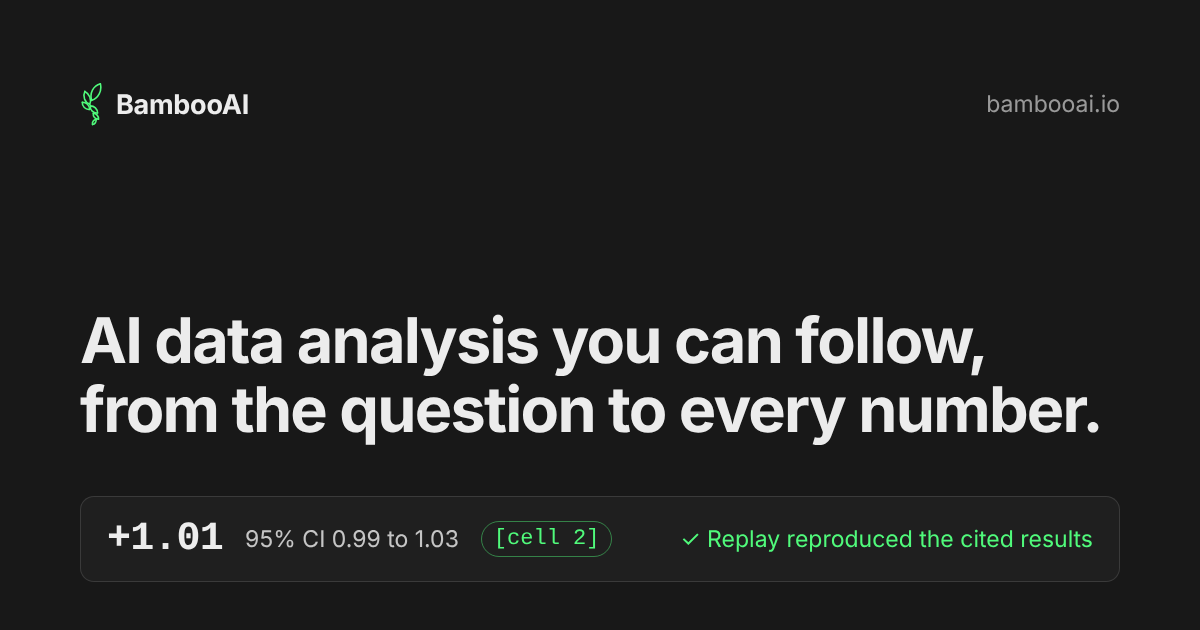
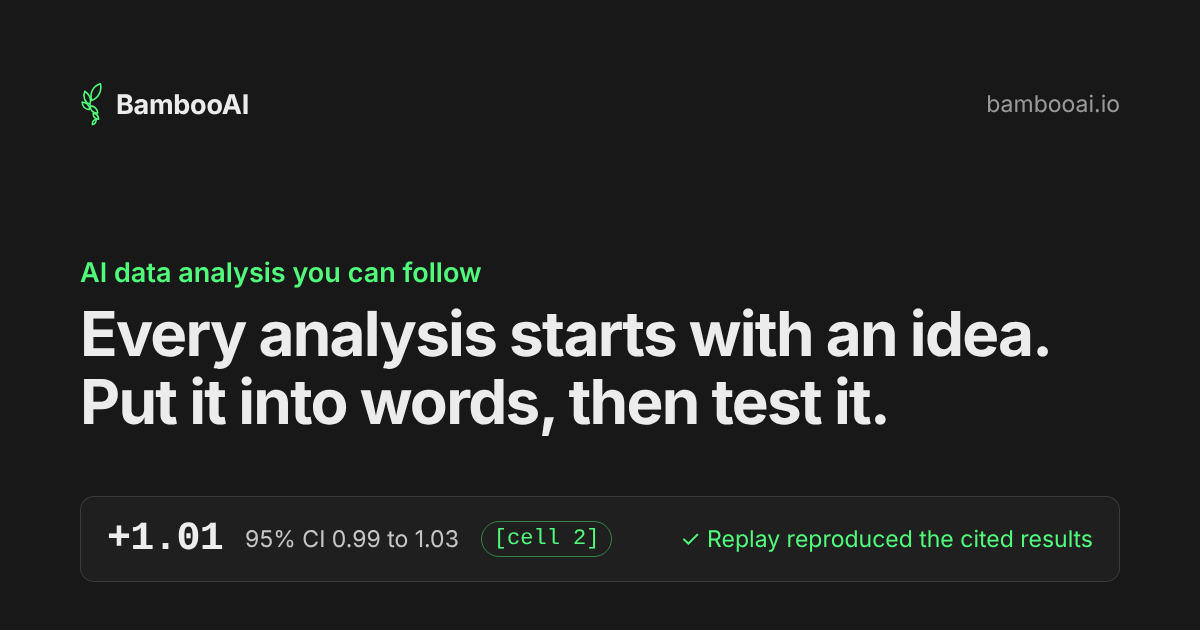
Lead with the idea: new headline and stage names, lighter buttons, notebook and open source under the diagram

Changed region(s): [[0.0617, 0.4825, 0.925, 0.7238], [0.0617, 0.4222, 0.4008, 0.4524]]

diff --git a/index.html b/index.html
@@ -16,7 +16,7 @@
     <meta property="og:url" content="https://bambooai.io/">
     <meta property="og:title" content="BambooAI: AI data analysis you can follow">
     <meta property="og:description" content="Ask a question about your data in plain words. BambooAI helps you think it through, does the analysis step by step, and checks the work behind every number.">
-    <meta property="og:image" content="https://bambooai.io/assets/images/og-image.png">
+    <meta property="og:image" content="https://bambooai.io/assets/images/og-image.png?v=2">
     <meta property="og:image:width" content="1200">
     <meta property="og:image:height" content="630">
     <meta name="twitter:card" content="summary_large_image">
@@ -58,15 +58,17 @@
         <section class="hero" id="top" aria-labelledby="hero-title">
             <div class="wrap">
                 <div class="hero-text">
-                    <h1 id="hero-title">AI data analysis you can follow, from the question to every number.</h1>
-                    <p class="lede">Upload your data and ask a question in plain words. BambooAI works through it in three stages: it helps you think the question through, does the analysis step by step in Python, and then checks its own work. Every stage stays visible, so you can follow how the answer was reached.</p>
+                    <p class="hero-kicker">AI data analysis you can follow</p>
+                    <h1 id="hero-title"><span class="h1-l">Every analysis starts with an idea.</span> <span class="h1-l">Put it into words, then test it.</span></h1>
+                    <p class="lede">Upload your data and ask a question in plain words. BambooAI helps you set out what you think is going on, tests it step by step in Python, and then checks its own work. Every stage stays visible, so you can follow how the answer was reached.</p>
+                    <p class="hero-facts"><span>Open source, MIT licence</span><span aria-hidden="true"> · </span><span>Any model, hosted or on your own machine</span><span aria-hidden="true"> · </span><span>Every analysis kept as a notebook</span></p>
                 </div>
 
                 <ol class="stages">
                     <li class="stage stage-q">
-                        <p class="stage-of"><span class="stage-n" aria-hidden="true">1</span>Analysis of the analyst</p>
+                        <p class="stage-of"><span class="stage-n" aria-hidden="true">1</span>Analysis of the idea</p>
                         <p class="stage-name"><a href="#question">The question</a></p>
-                        <p class="stage-text">Before any code runs, the Architect talks the question through with you and writes down a brief: what the answer is for, what you expect to see and what else might explain it.</p>
+                        <p class="stage-text">Before any code runs, the Architect helps you put what you think into words: a brief with what the answer is for, what you expect to see and what else might explain it.</p>
                         <div class="stage-view mini-brief" aria-hidden="true">
                             <p class="mb-label">What it will look like</p>
                             <div class="mb-fig">
@@ -95,7 +97,7 @@
                         </div>
                     </li>
                     <li class="stage stage-c">
-                        <p class="stage-of"><span class="stage-n" aria-hidden="true">3</span>Analysis of the analysis</p>
+                        <p class="stage-of"><span class="stage-n" aria-hidden="true">3</span>Analysis of the work</p>
                         <p class="stage-name"><a href="#checks">The checks</a></p>
                         <p class="stage-text">Every number in the report is checked against the code that produced it, the work is run again from scratch, and the code map shows how each result was made.</p>
                         <div class="stage-view mini-record" aria-hidden="true">
@@ -120,7 +122,7 @@
         <section class="section part part-q" id="question" aria-labelledby="question-title">
             <div class="wrap">
                 <header class="section-head">
-                    <p class="eyebrow"><span class="eyebrow-n" aria-hidden="true">1</span>Analysis of the analyst</p>
+                    <p class="eyebrow"><span class="eyebrow-n" aria-hidden="true">1</span>Analysis of the idea</p>
                     <h2 id="question-title">Work out the question first</h2>
                     <p>Before any analysis begins, the Architect works with you to find the right framing of the question, or the right representation of the problem. Without it, an AI model makes that choice on its own, usually without saying so.</p>
                 </header>
@@ -146,7 +148,7 @@
             <div class="wrap">
                 <header class="section-head">
                     <p class="eyebrow"><span class="eyebrow-n" aria-hidden="true">2</span>Analysis of the data</p>
-                    <h2 id="analysis-title">See every step</h2>
+                    <h2 id="analysis-title">Work out the answer step by step</h2>
                     <p>Each step of the analysis is visible as it happens, in full: the instructions the model received, its reasoning and working notes, the code it wrote, what that code printed and any attempt that failed.</p>
                 </header>
                 <figure class="showcase">
@@ -160,9 +162,9 @@
                     <figcaption>The app after an analysis, with each step on the left and the report’s charts on the right.</figcaption>
                 </figure>
                 <ul class="facts">
+                    <li><h3>Held to the brief</h3><p>What you expected and each other explanation are tested. If the data can’t give what the brief fixes, the analyst asks you instead of putting something else in its place.</p></li>
                     <li><h3>Quick, Deep or Adaptive</h3><p>Pick how much effort a question deserves. Each mode has a budget of turns and cost, and the analyst knows it.</p></li>
                     <li><h3>The context around the numbers</h3><p>It also reads the notes written alongside your data and the documents you attach, and cites each passage by its place in the source.</p></li>
-                    <li><h3>Follow-ups and branches</h3><p>A follow-up carries on where the last run ended. Branch off any earlier analysis and see them all on the thread map.</p></li>
                 </ul>
             </div>
         </section>
@@ -170,7 +172,7 @@
         <section class="section part part-c" id="checks" aria-labelledby="checks-title">
             <div class="wrap">
                 <header class="section-head">
-                    <p class="eyebrow"><span class="eyebrow-n" aria-hidden="true">3</span>Analysis of the analysis</p>
+                    <p class="eyebrow"><span class="eyebrow-n" aria-hidden="true">3</span>Analysis of the work</p>
                     <h2 id="checks-title">Check the work</h2>
                     <p>An AI model can write a long analysis in minutes, much faster than anyone can read it closely. So BambooAI keeps a full record of the work, and when the analysis ends, it checks the report against it.</p>
                 </header>
@@ -185,9 +187,9 @@
                     <figcaption>The code map traces each number back to your data. It is built by fixed rules, with no AI involved, and shows how a number was made, not whether it’s right.</figcaption>
                 </figure>
                 <ul class="facts">
+                    <li><h3>The result and the brief</h3><p>The brief shows whether you saw what you expected, and what came of each other explanation.</p></li>
                     <li><h3>Number checks</h3><p>Every number in the report is compared with what the code printed. One that doesn’t match is flagged, not silently corrected.</p></li>
                     <li><h3>Replay</h3><p>The code behind the cited results runs again in a fresh Python session, and the numbers are compared with the first run.</p></li>
-                    <li><h3>The result and the brief</h3><p>The brief shows whether you saw what you expected, and what came of each other explanation.</p></li>
                     <li><h3>The reach report</h3><p>It lists anything the code touched outside your data, and whether your question asked for it.</p></li>
                     <li><h3>The reviewer</h3><p>In Adaptive mode, a second model with its own instructions reviews the evidence every eight turns.</p></li>
                     <li><h3>Usage and logs</h3><p>Every model call is logged with its prompt, tokens, time and cost.</p></li>
@@ -202,7 +204,7 @@
                     <h2 id="again-title">Next questions, memory and routines</h2>
                 </header>
                 <ul class="facts">
-                    <li><h3>Next questions</h3><p>When a run ends, BambooAI suggests where to go next, based on what the analysis found or left open.</p></li>
+                    <li><h3>Next questions</h3><p>When a run ends, BambooAI suggests where to go next, based on what the analysis found or left open. A follow-up carries on where the run ended, and the thread map shows every branch.</p></li>
                     <li><h3>Memory</h3><p>The analyses you save become the Architect’s memory. Where they disagree, it says so and asks which way to go.</p></li>
                     <li><h3>Routines</h3><p>Save a finished analysis as a routine and run it on new data without a model.</p></li>
                 </ul>
@@ -230,7 +232,7 @@
                     <svg class="dg-ar dg-d dg-q" data-t="on:0.8" role="img" aria-label="From your question into the framing" viewBox="0 0 8 43" style="--x: 146px; --y: 36px; --w: 8px; --h: 43px; --n: 36"><path class="dg-line" d="M4 0 V36"></path><path class="dg-head" d="M0.5 36 L4 43 L7.5 36 Z"></path></svg>
                     <svg class="dg-ar dg-d dg-q" data-t="on:3.7" role="img" aria-label="From your data into the framing: what the brief rests on is looked up" viewBox="0 0 204 65" style="--x: 282px; --y: 14px; --w: 204px; --h: 65px; --n: 254"><path class="dg-line" d="M204 4 H4 V58"></path><path class="dg-head" d="M0.5 58 L4 65 L7.5 58 Z"></path></svg>
                     <p class="dg-lb dg-d dg-q" data-t="on:3.7" style="--x: 302px; --y: 28px; --w: 176px; text-align: center">looked up</p>
-                    <div class="dg-stage dg-g dg-q" data-t="on:1.2 act:1.2-5.8 loop:1.9-5.4 act:14.9-17 loop:15.1-16.9" style="--x: 0px; --y: 80px; --w: 320px; --h: 246px"><p class="dg-of">1 · Analysis of the analyst</p><p class="dg-name">Framing, and reframing</p><div class="dg-brief dg-ln" data-t="on:1.4"><p class="dg-bh"><span>The brief</span><span class="dg-vn"><span class="dg-ver" data-t="on:1.4-2.4">version 1</span><span class="dg-ver" data-t="on:2.4-3.2">version 2</span><span class="dg-ver" data-t="on:3.2-4.5">version 3</span><span class="dg-ver" data-t="on:4.5-5.1">version 4</span><span class="dg-ver last" data-t="on:5.1-15.5">version 5</span><span class="dg-ver" data-t="on:15.5-16.5">next question, version 1</span><span class="dg-ver" data-t="on:16.5">next question, version 2</span></span></p><ul class="dg-bl"><li class="dg-ln" data-t="on:1.5">What it is for</li><li class="dg-ln" data-t="on:1.7"><span>What you think, and why</span><span class="dg-mks"><span class="dg-mk ok" data-t="on:4.2">✓<span class="visually-hidden"> holds,</span></span><span class="dg-mk no" data-t="on:4.35">✕<span class="visually-hidden"> does not hold,</span></span><span class="dg-mk un" data-t="on:4.5">?<span class="visually-hidden"> cannot be checked</span></span></span></li><li class="dg-ln" data-t="on:2.0">What you expect to see</li><li class="dg-ln" data-t="on:2.3">What would change your mind</li><li class="dg-ln" data-t="on:4.8">Other explanations to test</li></ul></div></div>
+                    <div class="dg-stage dg-g dg-q" data-t="on:1.2 act:1.2-5.8 loop:1.9-5.4 act:14.9-17 loop:15.1-16.9" style="--x: 0px; --y: 80px; --w: 320px; --h: 246px"><p class="dg-of">1 · Analysis of the idea</p><p class="dg-name">Framing, and reframing</p><div class="dg-brief dg-ln" data-t="on:1.4"><p class="dg-bh"><span>The brief</span><span class="dg-vn"><span class="dg-ver" data-t="on:1.4-2.4">version 1</span><span class="dg-ver" data-t="on:2.4-3.2">version 2</span><span class="dg-ver" data-t="on:3.2-4.5">version 3</span><span class="dg-ver" data-t="on:4.5-5.1">version 4</span><span class="dg-ver last" data-t="on:5.1-15.5">version 5</span><span class="dg-ver" data-t="on:15.5-16.5">next question, version 1</span><span class="dg-ver" data-t="on:16.5">next question, version 2</span></span></p><ul class="dg-bl"><li class="dg-ln" data-t="on:1.5">What it is for</li><li class="dg-ln" data-t="on:1.7"><span>What you think, and why</span><span class="dg-mks"><span class="dg-mk ok" data-t="on:4.2">✓<span class="visually-hidden"> holds,</span></span><span class="dg-mk no" data-t="on:4.35">✕<span class="visually-hidden"> does not hold,</span></span><span class="dg-mk un" data-t="on:4.5">?<span class="visually-hidden"> cannot be checked</span></span></span></li><li class="dg-ln" data-t="on:2.0">What you expect to see</li><li class="dg-ln" data-t="on:2.3">What would change your mind</li><li class="dg-ln" data-t="on:4.8">Other explanations to test</li></ul></div></div>
                     <svg class="dg-ar dg-d dg-q" data-t="on:2.2" role="img" aria-label="From the framing into the record: the conversation and every version of the brief" viewBox="0 0 8 112" style="--x: 96px; --y: 326px; --w: 8px; --h: 112px; --n: 105"><path class="dg-line" d="M4 0 V105"></path><path class="dg-head" d="M0.5 105 L4 112 L7.5 105 Z"></path></svg>
                     <svg class="dg-ar dg-d dg-q" data-t="on:2.9" role="img" aria-label="From the record back into the framing: saved analyses, and how the result turned out" viewBox="0 0 8 111" style="--x: 216px; --y: 327px; --w: 8px; --h: 111px; --n: 104"><path class="dg-line" d="M4 111 V7"></path><path class="dg-head" d="M0.5 7 L4 0 L7.5 7 Z"></path></svg>
                     <p class="dg-lb dg-d dg-q" data-t="on:2.9" style="--x: 236px; --y: 374px; --w: 250px; text-align: left"><span class="dg-ver" data-t="on:2.9-14.3">saved analyses</span><span class="dg-ver last" data-t="on:14.3">how it turned out, saved analyses</span></p>
@@ -253,7 +255,7 @@
                     <svg class="dg-ar dg-d dg-c" data-t="on:11.0" role="img" aria-label="From the record to the checks, which read it" viewBox="0 0 8 111" style="--x: 988px; --y: 327px; --w: 8px; --h: 111px; --n: 104"><path class="dg-line" d="M4 111 V7"></path><path class="dg-head" d="M0.5 7 L4 0 L7.5 7 Z"></path></svg>
                     <p class="dg-lb dg-d dg-c" data-t="on:11.0" style="--x: 826px; --y: 374px; --w: 150px; text-align: right">read by the checks</p>
                     <p class="dg-conn dg-m dg-c" data-t="on:11.0"><span>read by the checks</span></p>
-                    <div class="dg-stage dg-g dg-c" data-t="on:10.6 act:10.6-14" style="--x: 832px; --y: 80px; --w: 320px; --h: 246px"><p class="dg-of">3 · Analysis of the analysis</p><p class="dg-name">Everything visible</p><ul class="dg-parts"><li class="dg-ln" data-t="on:12.0">Every number checked against the code</li><li class="dg-ln" data-t="on:12.2">The work run again from scratch</li><li class="dg-ln" data-t="on:12.4">Each number traced back to your data</li><li class="dg-ln" data-t="on:12.6">What the code touched outside your data</li><li class="dg-ln" data-t="on:12.8">How it turned out, against the brief</li></ul></div>
+                    <div class="dg-stage dg-g dg-c" data-t="on:10.6 act:10.6-14" style="--x: 832px; --y: 80px; --w: 320px; --h: 246px"><p class="dg-of">3 · Analysis of the work</p><p class="dg-name">Everything visible</p><ul class="dg-parts"><li class="dg-ln" data-t="on:12.0">Every number checked against the code</li><li class="dg-ln" data-t="on:12.2">The work run again from scratch</li><li class="dg-ln" data-t="on:12.4">Each number traced back to your data</li><li class="dg-ln" data-t="on:12.6">What the code touched outside your data</li><li class="dg-ln" data-t="on:12.8">How it turned out, against the brief</li></ul></div>
                     <svg class="dg-ar dg-d dg-c" data-t="on:13.3" role="img" aria-label="From the checks to an answer you can check" viewBox="0 0 8 43" style="--x: 988px; --y: 37px; --w: 8px; --h: 43px; --n: 36"><path class="dg-line" d="M4 43 V7"></path><path class="dg-head" d="M0.5 7 L4 0 L7.5 7 Z"></path></svg>
                     <p class="dg-conn dg-m dg-c" data-t="on:13.3"></p>
                     <p class="dg-chip dg-g dg-c" data-t="on:13.7" style="--x: 872px; --y: 0px; --w: 240px; --h: 36px">An answer you can check</p>
@@ -261,13 +263,10 @@
                     </div>
                     <div class="dg-foot"><button class="dg-ctl" type="button" hidden>Replay</button></div>
                 </figure>
-            </div>
-        </section>
-
-        <section class="section idea" aria-labelledby="idea-title">
-            <div class="wrap">
-                <h2 class="idea-label" id="idea-title">The idea behind it</h2>
-                <p class="idea-text">BambooAI is built on the view that AI-generated analysis should be open to the same scrutiny as any other analytical work. Reproducible calculations are an important part of that, but the question, the choice of methods, the assumptions and the interpretation need to stay open to examination too, and they still need a person to think them through.</p>
+                <ul class="facts record-points">
+                    <li><h3>Inspired by the notebook</h3><p>Analysts have long shown their work in notebooks: the code, what it printed and the notes, in order, in one Python session that keeps what each step built. BambooAI keeps every analysis that way, and that is what you read, what the checks test and what the replay runs.</p></li>
+                    <li><h3>Open source, any model</h3><p>BambooAI is open source, under the MIT licence. It works with models from all the main providers or with your own local ones, and every part can be changed: the model in each role, the instructions it follows, the code.</p></li>
+                </ul>
             </div>
         </section>
 
@@ -318,7 +317,7 @@
                     <svg class="mark" aria-hidden="true" focusable="false"><use href="#leaves"></use></svg>
                     <span class="brand-name">BambooAI</span>
                 </a>
-                <p>AI data analysis you can follow, from the question to every number. Built in public by Palo Galko.</p>
+                <p>Every analysis starts with an idea. Put it into words, then test it. Built in public by Palo Galko.</p>
             </div>
             <nav class="footer-links" aria-label="Elsewhere">
                 <ul>

diff --git a/style.css b/style.css
@@ -160,19 +160,22 @@ img {
     padding: 0 18px;
     border: 1px solid transparent;
     border-radius: var(--radius-small);
-    font: 600 0.98rem/1.1 var(--ui);
+    font: 500 0.98rem/1.1 var(--ui);
     text-decoration: none;
     cursor: pointer;
     white-space: nowrap;
 }
 
+/* the main action: tinted rather than filled, so it leads without weighing on the page */
 .btn-primary {
-    background: var(--green);
-    color: var(--green-ink);
+    background: rgba(80, 250, 123, 0.12);
+    color: var(--green);
+    border-color: rgba(80, 250, 123, 0.45);
 }
 
 .btn-primary:hover {
-    background: var(--green-hover);
+    background: rgba(80, 250, 123, 0.2);
+    border-color: rgba(80, 250, 123, 0.7);
 }
 
 .btn-secondary {
@@ -346,7 +349,15 @@ img {
 }
 
 .hero-text {
-    max-width: 62rem;
+    max-width: 68rem;
+}
+
+/* what BambooAI is, above the headline */
+.hero-kicker {
+    margin: 0 0 14px;
+    color: var(--green);
+    font-size: 1.05rem;
+    font-weight: 600;
 }
 
 .hero h1 {
@@ -356,11 +367,28 @@ img {
     letter-spacing: -0.028em;
 }
 
+/* the headline's two sentences, each on a line of its own at every width */
+.h1-l {
+    display: block;
+}
+
 .lede {
     max-width: 46rem;
     margin: 0;
     font-size: clamp(1.1rem, 1rem + 0.35vw, 1.25rem);
     line-height: 1.55;
+}
+
+/* three plain facts under the lede; on a narrow screen each moves to the next line whole */
+.hero-facts {
+    margin: 18px 0 0;
+    color: var(--text-muted);
+    font-size: 0.95rem;
+    line-height: 1.6;
+}
+
+.hero-facts span:not([aria-hidden]) {
+    white-space: nowrap;
 }
 
 /* the three stages, left to right: the question (blue, what goes in), the analysis (sand, the cells), the checks (green,
@@ -1556,6 +1584,14 @@ main > .section:last-child {
     }
 }
 
+/* the two points under the diagram: where the design comes from, and what BambooAI itself is. Two to a row, one on a
+   phone, like the points under each stage */
+.record-points {
+    grid-template-columns: repeat(2, minmax(0, 1fr));
+    max-width: 60rem;
+    margin: clamp(56px, 7vw, 88px) auto 0;
+}
+
 @media print {
     .is-armed .dg-g,
     .is-armed .dg-ln,
@@ -1577,28 +1613,6 @@ main > .section:last-child {
     .is-armed .dg-conn::before {
         transform: none !important;
     }
-}
-
-/* ---- the idea behind it ---- */
-
-.idea {
-    text-align: center;
-}
-
-.idea-label {
-    margin: 0 0 16px;
-    color: var(--text-muted);
-    font-size: 0.98rem;
-    font-weight: 600;
-}
-
-.idea-text {
-    max-width: 46rem;
-    margin: 0 auto;
-    color: var(--text-strong);
-    font-size: clamp(1.15rem, 1.02rem + 0.5vw, 1.4rem);
-    line-height: 1.55;
-    text-wrap: balance;
 }
 
 /* ---- sections fade in as they come into view. The script adds .reveal only when it runs, the reader has not asked

diff --git a/script.js b/script.js
@@ -31,7 +31,7 @@ const ACCESS_URL = 'https://script.google.com/macros/s/AKfycbzRf20J8lqnIpSdeEZ6H
     // block is still below the fold; anything already on screen is shown as it is ----
     const still = window.matchMedia('(prefers-reduced-motion: reduce)').matches;
     if (!still && 'IntersectionObserver' in window) {
-        const below = [...document.querySelectorAll('main .section-head, main .showcase, main .facts, main .idea-text, main .editions')]
+        const below = [...document.querySelectorAll('main .section-head, main .showcase, main .facts, main .editions')]
             .filter((el) => el.getBoundingClientRect().top > window.innerHeight);
         const watch = new IntersectionObserver((entries) => {
             entries.forEach((e) => {

diff --git a/404.html b/404.html
@@ -40,7 +40,7 @@
                     <svg class="mark" aria-hidden="true" focusable="false"><use href="#leaves"></use></svg>
                     <span class="brand-name">BambooAI</span>
                 </a>
-                <p>AI data analysis you can follow, from the question to every number. Built in public by Palo Galko.</p>
+                <p>Every analysis starts with an idea. Put it into words, then test it. Built in public by Palo Galko.</p>
             </div>
             <nav class="footer-links" aria-label="Elsewhere">
                 <ul>
